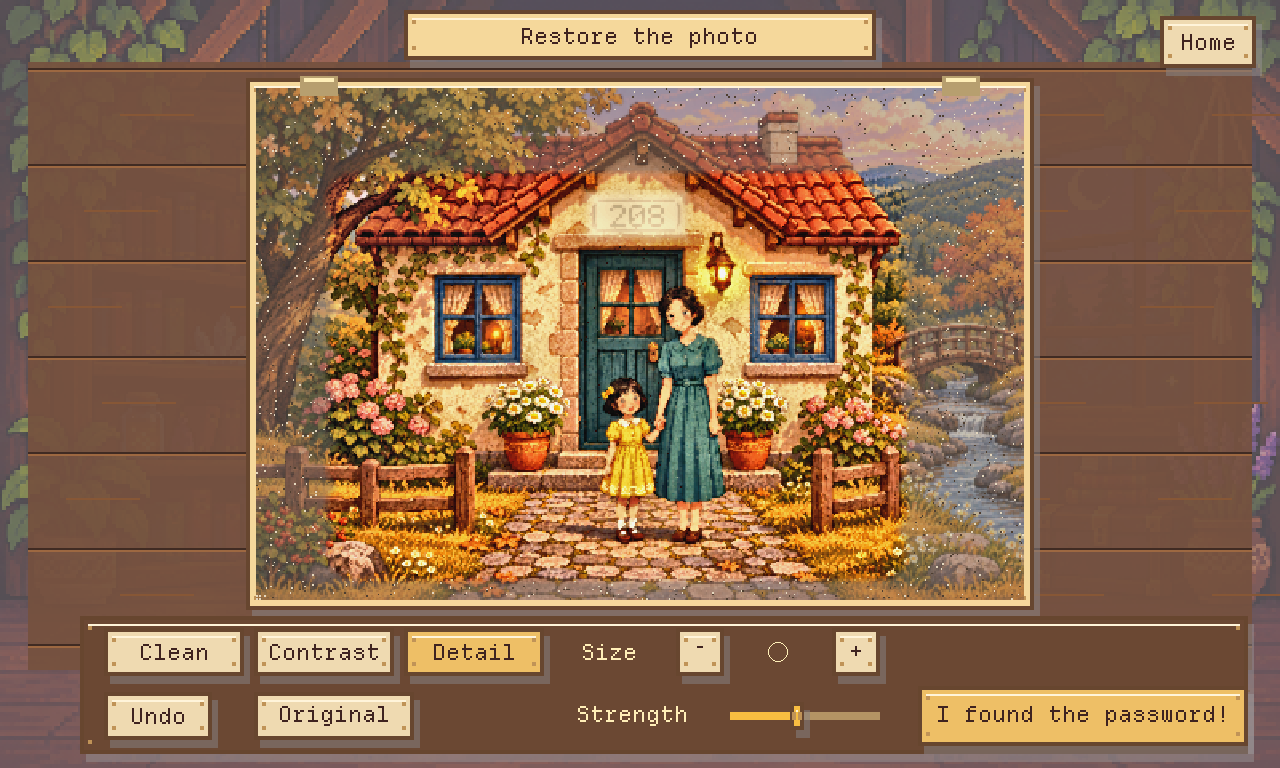
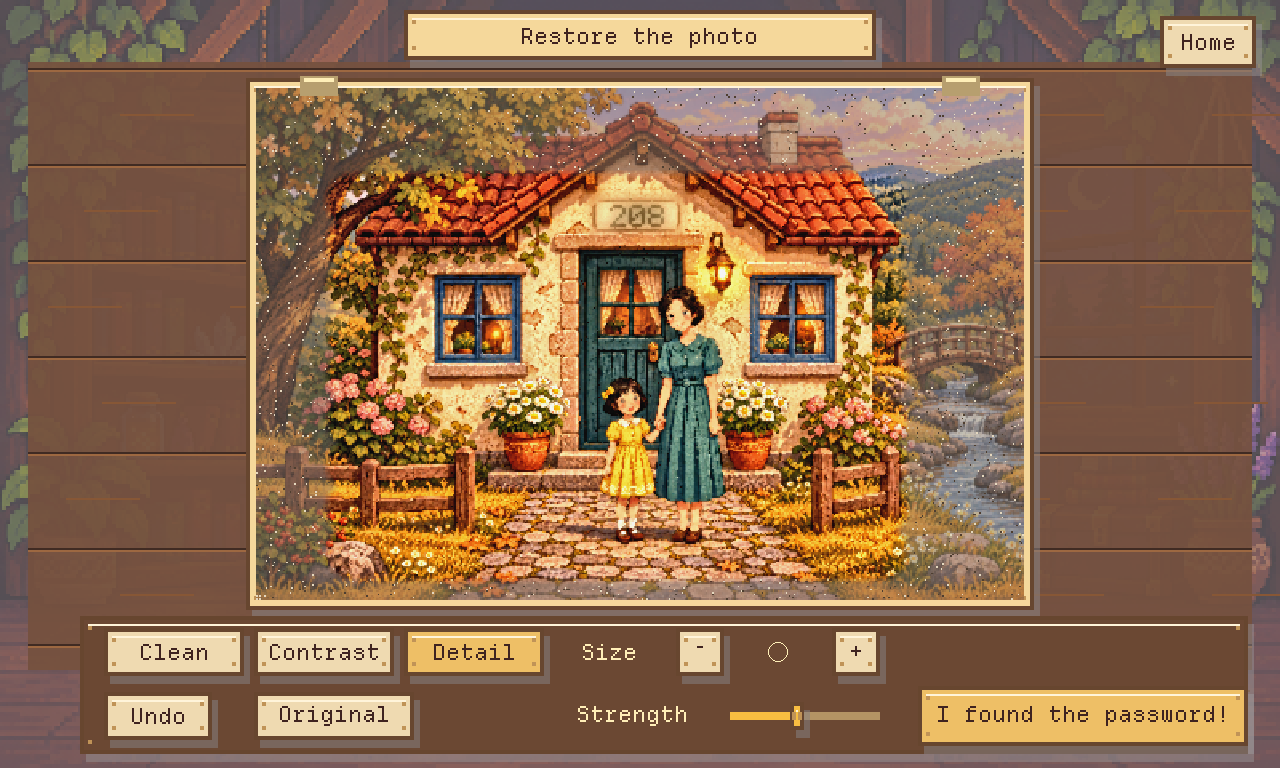
Clarify faded ink and celebrate each restored memory

diff --git a/tests/HomewardTests.cpp b/tests/HomewardTests.cpp
@@ -70,17 +70,21 @@ int main(int argc,char** argv){try{
     BrushRepair faded,ordinary;faded.load(clue,stain);ordinary.load(clue);
     cv::Mat outside(clue.size(),CV_8U,cv::Scalar(255));outside(stain).setTo(0);cv::Mat outsideDifference;cv::absdiff(faded.damaged,ordinary.damaged,outsideDifference);
     check(cv::mean(outsideDifference,outside)==cv::Scalar(0,0,0,0),"Clue aging leaves the rest of the photograph unchanged");
+    cv::Mat wall(320,480,CV_8UC3,cv::Scalar(110,150,175));BrushRepair agedWall,plainWall;
+    agedWall.load(wall,stain);plainWall.load(wall);
+    check(cv::norm(agedWall.damaged,plainWall.damaged,cv::NORM_INF)==0,"Local fading preserves the wall's own color without a pasted tint");
     auto separation=[&](const cv::Mat& image){cv::Mat gray;cv::cvtColor(image,gray,cv::COLOR_BGR2GRAY);return cv::mean(gray,paperMask)[0]-cv::mean(gray,inkMask)[0];};
     double faint=separation(faded.image());
     for(auto tool:{Filter::Clean,Filter::Contrast,Filter::Detail})faded.stroke({200,80},{275,80},25,tool);
     double readable=separation(faded.image());std::cout<<"Doorplate ink contrast: "<<faint<<" -> "<<readable<<"\n";
     check(faint<14,"The unpainted doorplate starts with faint ink");
-    check(readable>25&&readable>faint*2.5,"Real filters recover readable contrast from the observation");
+    check(readable>50&&readable>faint*4,"Real filters recover readable contrast from the observation");
     check(cv::norm(faded.image()(cv::Rect(350,200,50,50)),faded.damaged(cv::Rect(350,200,50,50)),cv::NORM_INF)==0,"Clue repair stays inside the player's brush");
-    auto envelope=story::foundEnvelope(),map=story::foundMap(),arrival=story::reachedHome();
+    auto number=story::foundNumber(),envelope=story::foundEnvelope(),map=story::foundMap(),arrival=story::reachedHome();
     check(envelope.size()==1&&envelope[0].words.find("map")==std::string::npos,"The box reveals only an envelope");
     check(map.front().words.find("map inside")!=std::string::npos,"Opening the envelope reveals its map");
-    check(arrival.size()==1&&arrival[0].words.find("back")!=std::string::npos,"Only arrival reveals the writing on the back");
+    check(arrival.size()==2&&arrival[0].words.find("back")!=std::string::npos,"Only arrival reveals the writing on the back");
+    check(number[0].happy==3&&envelope[0].happy==3&&arrival[0].happy==3,"Each chapter ends with a happy encouragement");
     auto personal=story::ending(true),quiet=story::ending(false);
     check(personal[3].words!=quiet[3].words&&personal[3].words.find("held my hand")!=std::string::npos,"Lia responds to the player's actual family repair");
     auto opening=story::opening(),ending=story::ending();
@@ -95,7 +99,7 @@ int main(int argc,char** argv){try{
     bool playerAfter=false,helperAfter=false;
     for(size_t i=leave+1;i<ending.size();++i){playerAfter|=ending[i].speaker=="You";helperAfter|=ending[i].speaker=="tonton";}
     check(playerAfter&&helperAfter,"The player and helper share the final conversation");
-    for(auto script:{opening,ending,personal,envelope,map,arrival})for(auto speech:script){std::istringstream lines(speech.words);std::string line;int count=0;while(std::getline(lines,line)){++count;check(line.size()<=44,"NPC line fits the large native pixel font");}check(count<=3,"NPC speech stays short");}
+    for(auto script:{opening,ending,personal,number,envelope,map,arrival})for(auto speech:script){std::istringstream lines(speech.words);std::string line;int count=0;while(std::getline(lines,line)){++count;check(line.size()<=44,"NPC line fits the large native pixel font");}check(count<=3,"NPC speech stays short");}
 
     Maze maze;auto route=maze.solution();
     std::cout<<"Shortest maze route: "<<route.size()<<" gestures\n";

diff --git a/src/HomewardGame.h b/src/HomewardGame.h
@@ -42,22 +42,34 @@ public:
         int low=percentile(.02f),high=percentile(.98f);
         if(high-low<8)return observed.clone();
         double gain=std::min(3.,235./(high-low));cv::Mat result;
-        observed.convertTo(result,CV_8U,gain,10-low*gain);
+        // Raise weak local detail around its own mean, keeping the wall's illumination.
+        cv::Mat luminance,mean,squareMean,detailSource=observed.clone();gray.convertTo(luminance,CV_32F);
+        cv::GaussianBlur(luminance,mean,{0,0},3.);
+        cv::GaussianBlur(luminance.mul(luminance),squareMean,{0,0},3.);
+        for(int y=0;y<observed.rows;++y)for(int x=0;x<observed.cols;++x){
+            float average=mean.at<float>(y,x);
+            float deviation=std::sqrt(std::max(0.f,squareMean.at<float>(y,x)-average*average));
+            float localGain=deviation<1?1:std::clamp(22.f/(deviation+1),1.f,6.f);
+            float delta=(localGain-1)*(luminance.at<float>(y,x)-average);
+            auto& pixel=detailSource.at<cv::Vec3b>(y,x);
+            for(int c=0;c<3;++c)pixel[c]=cv::saturate_cast<uchar>(pixel[c]+delta);
+        }
+        detailSource.convertTo(result,CV_8U,gain,10-low*gain);
         // Local luminance equalization recovers uneven fading without knowing where the clue is.
         cv::Mat lab,local;cv::cvtColor(result,lab,cv::COLOR_BGR2Lab);std::vector<cv::Mat> channels;cv::split(lab,channels);
-        cv::createCLAHE(6.,{16,12})->apply(channels[0],channels[0]);cv::merge(channels,lab);cv::cvtColor(lab,local,cv::COLOR_Lab2BGR);
-        cv::addWeighted(result,.45,local,.55,0,result);return result;
+        cv::createCLAHE(3.,{16,12})->apply(channels[0],channels[0]);cv::merge(channels,lab);cv::cvtColor(lab,local,cv::COLOR_Lab2BGR);
+        cv::addWeighted(result,.65,local,.35,0,result);return result;
     }
     void load(const cv::Mat& source,cv::Rect fadedArea={}){
         cv::Mat faded;cv::GaussianBlur(source,faded,{3,3},.55);faded.convertTo(damaged,CV_8U,.62,43);
         // A smooth, local age stain compresses the ink range but never erases the observation.
+        cv::Mat localPaper;cv::GaussianBlur(damaged,localPaper,{0,0},5.);
         auto area=fadedArea&cv::Rect(0,0,damaged.cols,damaged.rows);
         for(int y=area.y;y<area.br().y;++y)for(int x=area.x;x<area.br().x;++x){
             float edge=std::min({x-area.x+1,area.br().x-x,y-area.y+1,area.br().y-y})/10.f;
             float weight=std::min(1.f,edge);float amount=.91f*weight*weight*(3-2*weight);
-            float stain=2*std::sin(x*.16f)+2*std::cos(y*.21f);
             auto& pixel=damaged.at<cv::Vec3b>(y,x);
-            const cv::Vec3f paper(147+stain,169+stain,181+stain);
+            const auto paper=localPaper.at<cv::Vec3b>(y,x);
             for(int c=0;c<3;++c)pixel[c]=cv::saturate_cast<uchar>(pixel[c]*(1-amount)+paper[c]*amount);
         }
         cv::RNG random(208);

diff --git a/src/StoryScript.h b/src/StoryScript.h
@@ -21,18 +21,24 @@ inline std::vector<Speech> opening(){return {
     {"Lia","She died last month. I miss her.\nI want to know what she kept inside.",1},
     {"Lia","The password is her first home's address.\nThat is what she told me.\nBut I have never been there."},
     {"You","I'll take good care of them.\nLet's find that house number."},
-    {"tonton","Brush with Clean, then try Contrast.\nLook for the house number.\nTry the box when you can read it.",1}
+    {"tonton","Clean removes dust. Contrast helps fading.\nDetail makes small edges clearer.\nDrag a brush over the house number.",1},
+    {"tonton","Size changes how wide your brush is.\nStrength changes how much the tool does.\nHold Original to compare. Then try the box."}
+};}
+
+inline std::vector<Speech> foundNumber(){return {
+    {"tonton","Nice work! Let's try your number.\nWrite one number in each box.\nCheck the small windows, then press Open.",3}
 };}
 
 inline std::vector<Speech> foundEnvelope(){return {
-    {"tonton","An envelope!\nLet's open it.",2}
+    {"tonton","It opened! You did it!\nThere's an envelope inside.\nLet's open it.",3}
 };}
 inline std::vector<Speech> foundMap(){return {
     {"tonton","There's a map inside!\nIt says, 'For little Tang.'\nThat's Lia's grandma!",2},
-    {"tonton","Open Photo and compare the houses.\nClick a house for a closer look.\nThen press Start camera."}
+    {"tonton","Click a map house to compare the pictures.\nUse Photo if you want to repair more.\nThen press Start camera."}
 };}
 inline std::vector<Speech> reachedHome(){return {
-    {"tonton","We made it! There's writing on the back.\nClick the folded corner. Let's see.",3}
+    {"tonton","You brought it home! Great work!\nWait... there's writing on the back.",3},
+    {"tonton","Click the folded corner.\nLet's see what it says.",1}
 };}
 
 inline std::vector<Speech> ending(bool peopleRestored=false){return {

diff --git a/src/ofApp.cpp b/src/ofApp.cpp
@@ -139,7 +139,7 @@ void ofApp::finishChapter(){
     cameraTipPending=false;photoOpen=false;
     if(chapter==0){
         if(revisiting){chapter=returnChapter;revisiting=false;if(resumeCamera){resumeCamera=false;toggleCamera();}return;}
-        chapter=1;say({{"tonton","Write one number in each box.\nCheck the small windows, then press Open.",1}});
+        chapter=1;say(story::foundNumber());
     }else if(chapter==1){chapter=2;maze.reset();trail.clear();say(story::foundEnvelope(),Screen::Envelope);
     }else {delivered=true;stopCamera();say(story::reachedHome(),Screen::Letter);}
 
@@ -625,7 +625,7 @@ void ofApp::runQA(){
         if(cue==story::Cue::ReturnPhoto){capture("qa-handover.png");checkQA(bool(giftReturned&&giftPhoto.isAllocated()&&!returnedPhoto.empty()&&cv::norm(returnedPhoto,repair.image(),cv::NORM_INF)==0&&cv::countNonZero(repair.mask)<int(repair.mask.total())),__LINE__);}
         if(cue==story::Cue::LiaLeaves)capture("qa-goodbye.png");
         if(!intro&&!outro&&chapter==2&&!delivered&&!envelopeOpened){checkQA(afterDialogue==Screen::Envelope,__LINE__);capture("qa-open-box.png");}
-        if(!intro&&!outro&&chapter==2&&dialogue[speechIndex].words.find("Open Photo")!=std::string::npos&&!delivered)capture("qa-photo-guide.png");
+        if(!intro&&!outro&&chapter==2&&dialogue[speechIndex].words.find("Click a map house")!=std::string::npos&&!delivered)capture("qa-photo-guide.png");
         if(!intro&&!outro&&chapter==2&&dialogue[speechIndex].words.find("Hold your hand")!=std::string::npos&&!delivered)capture("qa-camera-guide.png");
         if(delivered&&!outro&&speechIndex==0)capture("qa-turn-guide.png");
         click({400,350});return;

diff --git a/docs/TECHNICAL.md b/docs/TECHNICAL.md
@@ -6,7 +6,7 @@
 
 此前直接以 13/15px 加载这款 11px 网格字体造成笔画不均，因此已移除非原生字号。封面大标题保留原创位图字。旧位图字体把小写 `v` 特判成向下箭头，导致 Love 出错；该替换也已移除，方向箭头单独绘制。
 
-Lia 有平静、难过、释然三个表情。序章先展示工作室；Lia 开始介绍时用 0.55 秒缓动推近，左侧大箱子、右侧大照片分开展示，随后每关前后进入短对话。Lia 仅在对话框出现；88×88 等比例采样方形肖像，避免重复和拉伸。tonton 在底部的小肖像区出现，成功时使用开心动画。第一关只在开始前给一段指引，刷图、换工具和写完数字不再触发对话。第三关首次相机预览就绪后只解释一次手势；回照片再开启相机不重复，路口也不再弹窗。正常操作界面没有常驻长说明或「?」提示；第二次密码失败、首次到错误房屋时才自然补充一句建议。
+Lia 有平静、难过、释然三个表情。序章先展示工作室；Lia 开始介绍时用 0.55 秒缓动推近，左侧大箱子、右侧大照片分开展示，随后每关前后进入短对话。Lia 仅在对话框出现；88×88 等比例采样方形肖像，避免重复和拉伸。tonton 在底部的小肖像区出现，成功时使用开心动画。第一关开始前分两段解释滤镜、笔刷参数和 Original；三关结束时分别以开心跳跃和一句简短鼓励承接下一任务，刷图、换工具和写完数字不再触发对话。第三关首次相机预览就绪后只解释一次手势；回照片再开启相机不重复，路口也不再弹窗。正常操作界面没有常驻长说明或「?」提示；第二次密码失败、首次到错误房屋时才自然补充一句建议。
 
 ### 剧情事件与道具
 
@@ -18,10 +18,10 @@ Lia 有平静、难过、释然三个表情。序章先展示工作室；Lia 开
 
 ## 1. 照片修复
 
-照片采样到 480×320；先把门牌写入图像，再施加轻微 Gaussian blur、对比度压缩和稀疏、可复现的暖色污点（约 2.5% 采样次数，重复点可重合）。门牌另加 70×37 的局部褪色区，以 smoothstep 向边缘过渡；中心保留约 9% 的原有亮度差，并加轻微低频色差，不增加全图雪花。修复仅使用损坏观测：
+照片采样到 480×320；先把门牌写入图像，再施加轻微 Gaussian blur、对比度压缩和稀疏、可复现的暖色污点（约 2.5% 采样次数，重复点可重合）。门牌另加 70×37 的局部褪色区，以 smoothstep 向边缘过渡；中心将高频细节压至约 9%，低频颜色来自该照片自身的 Gaussian 平滑结果（sigma=5），不混入固定浅色，因此避免门牌出现外加的色块，不增加全图雪花。修复仅使用损坏观测：
 
 - Clean：3×3 `medianBlur` 候选与观测求差，灰度差大于 24 的离群像素才替换为中值；避免对所有像素细节统一平滑。
-- Contrast：从当前观测图像的灰度亮度直方图估计 2% 和 98% 分位点。统计前使用 3×3 中值滤波抑制脉冲异常值；把估计范围线性映射到 10–245，增益上限为 3。所有颜色通道使用同一映射；亮度跨度不足 8 时保持原样，避免平坦图像不稳定。随后在 Lab 的 L 通道做 CLAHE（clipLimit=6，16×12 网格），与整体伸展结果按 55% / 45% 混合，增强不均匀褪色。CLAHE 不接收门牌坐标。只读取当前受损／已处理像素，不读取原图，也不使用生成损坏时的缩放和偏移参数。它可能同时放大未清除的噪点。
+- Contrast：从观测灰度图的 2% 和 98% 分位点估计整体亮度范围，统计前做 3×3 中值滤波。先用 Gaussian 均值和二阶矩（sigma=3）估计局部标准差，让弱细节围绕其自身均值增强：`g=clamp(22/(std+1),1,6)`，标准差低于 1 时不增强。灰度残差 `(g-1)*(I-mean)` 等量加入三个颜色通道，避免把整块墙面抬成白色。再应用整体伸展（目标 10–245、增益上限 3），接着在 Lab 的 L 通道做温和 CLAHE（clipLimit=3，16×12 网格），以 35% 比例与整体结果混合。平坦输入保持原样。滤镜不接收门牌坐标，不读取原图或损坏参数；它也可能增强残留噪声，所以建议先 Clean。
 - Detail：Gaussian 低通后形成 `1.6 I - 0.6 G(I)` 的反锐化结果，再按玩家选择的强度混合，增强残存边缘，也可能增强噪声。
 
 每种工具有独立二值掩膜和 0–100% 强度，按 Clean → Contrast → Detail 合成。掩膜内部通过 `distanceTransform` 得到离边缘距离，5 像素内逐渐增加权重。使用 `a = s min(1, distance/5)`、`(1-a) I + a F(I)` 混合；边缘向内柔化，掩膜外完全不变，零强度完全保留输入。强度作用于该工具已刷过的区域，拖动时实时预览。30 步历史同时保存掩膜和三种强度，支持撤销笔划与整次滑杆拖动。Original 按钮或空格按住时只显示损坏纹理，松开恢复修复纹理；不改动修复数据。算法不是「擦开原图」，也不声称能恢复已经完全丢失的信息。门牌线索由玩家判断，不以覆盖率／隐藏区域命中率设门槛。第二、三关均可返回编辑，保留掩膜、强度、手写笔迹、迷宫位置与路径。摄像头在回照片时停止，回地图后按进入前的状态自动恢复，并重新要求掌心回中。
@@ -60,7 +60,7 @@ Python 工作进程独占 OpenCV `VideoCapture`。镜像、缩放至 320×240、
 
 ## 验证边界
 
-`HomewardTests.cpp` 验证局部门牌褪色只影响指定区域、默认滤镜将门牌字底亮度差从约 7 提升到约 34、信封／地图／背面留言的顺序、真实滤波改善、不同亮度范围的自适应伸展、平坦输入稳定性、强度变化与撤销、局部作用、独立数字留出集、不同写法的 8、掌心回中／停留／禁止连发／丢失重置／斜向与墙壁抑制，每条移动路径保持同一方向、在岔口／弯角／房屋停下，以及所有可达停靠点都能回到终点。旧四向光流测试只证明旧算法回归。
+`HomewardTests.cpp` 验证局部门牌褪色只影响指定区域、默认滤镜将门牌字底亮度差从约 14 提升到约 80、平坦暖色墙面不会被局部褪色染成异色、三关的开心鼓励、信封／地图／背面留言的顺序、真实滤波改善、不同亮度范围的自适应伸展、平坦输入稳定性、强度变化与撤销、局部作用、独立数字留出集、不同写法的 8、掌心回中／停留／禁止连发／丢失重置／斜向与墙壁抑制，每条移动路径保持同一方向、在岔口／弯角／房屋停下，以及所有可达停靠点都能回到终点。旧四向光流测试只证明旧算法回归。
 
 `--qa` 使用真实鼠标事件画画和手写数字，方向键走迷宫，验证完整故事、强度撤销、只读对比、房屋近景、照片返回与迷宫位置保持，以及归还照片的像素一致性；`--qa-camera` 检查实际工作进程收帧、预览解码及关闭。摄像头画面不写入 QA 截图。自动测试不能代替不同用户、光照和设备下的真人手掌试玩。
 

diff --git a/README.md b/README.md
@@ -20,13 +20,13 @@ The house number has a small, faded stain. Clean and Contrast bring out the fain
 
 You do not need to paint the whole photo. Click **I found the password!** when you are ready.
 
-Click **Photo** in the second or third chapter to keep working on it. Your writing, route, and position stay saved during the story. **Back to the map** returns to the same place. Click a house to see it next to your own repaired photo.
+Click **Photo** in the second or third chapter to keep working on it. Your writing, route, and position stay saved during the story. **Back to the map** returns to the same place. When the letter is stopped, click any house on the map to see it next to your own repaired photo. This comparison window does not open by itself.
 
 For the camera, hold your hand in the middle first. Move it to one side and wait for the ring to fill. The letter follows a straight path and stops at a fork, corner, house, or dead end. It never turns by itself. Bring your hand back to the middle before choosing another direction. Arrow keys and the arrows in the preview also work.
 
 The box holds a sealed envelope. Click **Open envelope** to find the map inside. Finish the map before turning it over to read the message.
 
-tonton gives one short guide before each task. Painting, changing tools, writing, and reaching a corner do not open extra dialogue. Camera instructions appear only on the first start. A wrong password or house can bring a short reminder.
+tonton explains the tools before you use them and cheers when you finish each task. Painting, changing tools, writing, and reaching a corner do not open extra dialogue. Camera instructions appear only on the first start. A wrong password or house can bring a short reminder.
 
 At the end, Lia receives **the photo you actually repaired**. If you bring the people in the photo back into view, she shares a memory of holding her grandma's hand. The game does not finish the photo for you.
 
@@ -70,7 +70,7 @@ The camera starts only after you choose **Start camera**. macOS may ask for perm
 
 ## How it works
 
-- **Photo:** selective median filtering, contrast based on the photo's brightness histogram and local luminance equalization (CLAHE), gentle sharpening, and soft brush edges. Each tool has its own strength. Undo restores both painting and strength changes.
+- **Photo:** selective median filtering, contrast based on the photo's brightness histogram, weak-detail enhancement, and local luminance equalization (CLAHE), gentle sharpening, and soft brush edges. Each tool has its own strength. Undo restores both painting and strength changes.
 - **Writing:** thresholding, size and slant correction, HOG features, and OpenCV kNN.
 - **Hand control:** OpenCV camera capture and MediaPipe hand landmarks, with smoothing, a hold timer, and a return-to-middle rule.
 
@@ -86,7 +86,7 @@ build/Build/Products/Release/MirrorArchive.app/Contents/MacOS/MirrorArchive --qa
 build/Build/Products/Release/MirrorArchive.app/Contents/MacOS/MirrorArchive --qa-camera
 ```
 
-Current algorithm checks: **85 legacy checks, 889 story checks, and 6 Python tests passed**. The digit reader scored **2369 / 2500 (94.76%)** on held-out samples. It also passed the mouse-written password and nine two-loop versions of 8. These results do not guarantee every person's handwriting will be read correctly.
+Current algorithm checks: **85 legacy checks, 903 story checks, and 6 Python tests passed**. The digit reader scored **2369 / 2500 (94.76%)** on held-out samples. It also passed the mouse-written password and nine two-loop versions of 8. These results do not guarantee every person's handwriting will be read correctly.
 
 The latest real-camera check received 44 frames on first start and 30 after returning from photo editing. Both sessions closed successfully; no camera images were saved.
 

diff --git a/docs/DEMO.md b/docs/DEMO.md
@@ -2,11 +2,11 @@
 
 1. Start。以“我”的视角介绍自己创办的 Mirror Archive 和助手 tonton。门铃响起后欢迎 Lia；她带来奶奶留下的照片和箱子。点击对话框／空格继续；介绍遗物时镜头推近，tonton 随后说明画笔。
 2. Clean 刷掉门牌附近噪点，Contrast 加强褪色文字，再试 Detail。用 + / - 改大小，Strength 调整当前工具强度，Undo 撤销。按住 Original 或空格 看受损原貌，松开恢复自己的修复。门牌是 **208**。无需涂满，点 **I found the password!**。
-3. 按引导在三格手写 **2 / 0 / 8**。8 可以画连续交叉圈，也可以画上下两圈。停笔后看小窗口；必要时选候选或 Clear 重写。Photo 返回第一关继续修复，Back to the box 返回箱子。Open。
+3. 按引导在三格手写 **2 / 0 / 8**。8 可以画连续交叉圈，也可以画上下两圈。停笔后看小窗口；必要时选候选或 Clear 重写。Photo 返回第一关继续修复，Back to the box 返回箱子。Open，tonton 会为开锁成功欢呼。
 4. 开箱时只看到信封。点击 **Open envelope** 或信封本身，再发现里面的地图和「For little Tang」。此时不透露地图作者或背面的留言。
 5. **Start camera**。手掌放预览中间，移向方向区域并停到环满；回中间后再选下一方向。无需快速挥手或捏合。信封沿选定方向通过直路，到岔口、弯角、房屋或尽头就停。转弯需要新的方向输入。
 6. 一条短路线：**右、右、右、上、左、上、右、上**。依次到 (3,7)、(5,7)、(9,7)、(9,5)、(7,5)、(7,3)、(11,3)、(11,1)。先观察岔路和房子；蓝顶面包店、紫顶邮局不是老家。点击房屋看近景，与玩家修复后的照片并排比较。Photo 可返回继续修复，Back to the map 回到原来的位置；tonton 不直接透露目标特征。走错可原路返回。
-7. 到家，tonton 用一段短话庆祝、发现地图背面的字并提示折角。点击右下折角翻纸，读「I will leave the light on for you. Love, Mom」。
+7. 到家，tonton 先开心庆祝、发现地图背面的字，再提示点击折角。点击右下折角翻纸，读「I will leave the light on for you. Love, Mom」。
 8. 点击 **Bring it to Lia**。Lia 想起奶奶也总为她留灯。“我”安慰她、亲手归还玩家实际修复的照片；没有自动补修或额外提问。Lia 道谢离开后，“我”和 tonton 谈起今天的委托；人物区域有可见修复时，Lia 会说奶奶也曾这样牵她的手。最后 Keep a copy 选择位置导出自己的 PNG，Go home 回封面。
 9. 可补充展示封面的 Meet us / About，以及右下角的小喇叭声音开关；背景有微光和浮尘，START 轻轻上下浮动。
 
